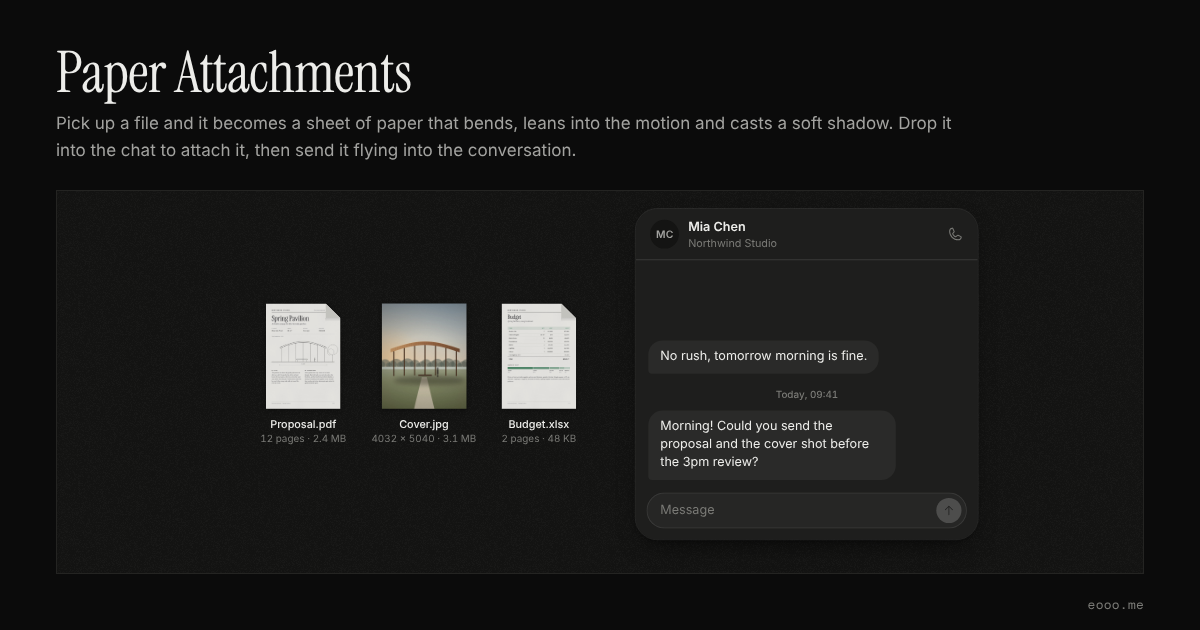
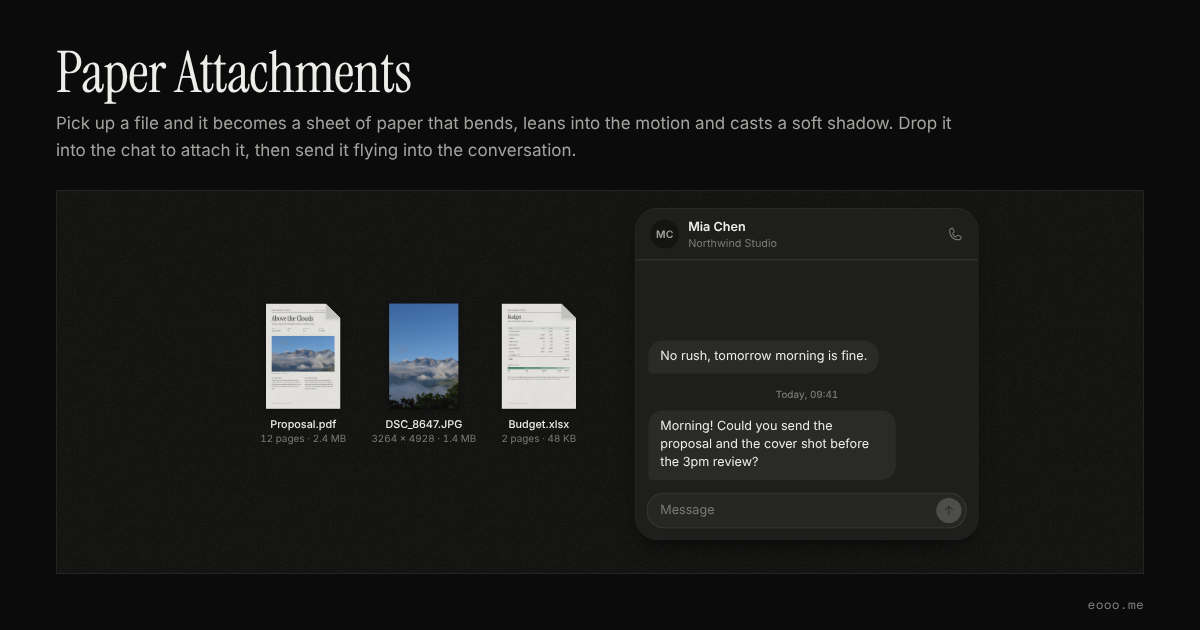
feat(lab): Paper Attachments 换上真实照片：封面是一张真的山景照，提案页印着它 (#26)
- 封面换成 laken 拍的 DSC_8647（转正、缩到 1000px 宽、去掉 EXIF，存成 webp），文件名、像素尺寸、大小和比例都照相机原图
- 提案页的线稿换成这张照片的横幅；对话、提案和预算改成一篇摄影专题，预算的数加得上
- 照片和标题字体都载好了才画三页；手机首页卡片上的文件名对齐，长文件名不再挤到对话框
- prompt 的第 2 步跟着改，重截分享图

Claude-Session: https://claude.ai/code/session_01AtSjXLnefQtHxDA21TmYrk

Changed region(s): [[0.3083, 0.4825, 0.4008, 0.6937], [0.2158, 0.5127, 0.2775, 0.6333]]

diff --git a/src/labs/paper-attachments/pages.js b/src/labs/paper-attachments/pages.js
@@ -1,7 +1,9 @@
 /* 三份文件各画一次到 canvas 上：桌上的小图和拿起来那张纸的贴图都用它，两边永远一样。
+   封面是一张真的照片（laken 拍的 DSC_8647，存成不带 EXIF 的 webp），提案页上印的也是它；预算表是画出来的。
    字用网站自己的：标题是 Instrument Serif（本站带的字体），正文衬线用系统的 Georgia，小字用系统的无衬线。
    纸是纸，不跟主题变色；深色主题里整张压暗一点（CSS 的 --paper-dim 和着色器的曝光） */
 import { lerp } from "./motion.js";
+import photoUrl from "./assets/dsc-8647.webp?url";
 
 const DISPLAY = '"Instrument Serif", Georgia, serif';
 const SERIF = 'Georgia, "Times New Roman", serif';
@@ -9,11 +11,23 @@ const SANS = '-apple-system, BlinkMacSystemFont, "Segoe UI", system-ui, sans-ser
 export const PAPER = "#fbfaf7";
 export const PAPER_BACK = "#efeee9";
 
-/** 画字之前先把标题字体载进来；最多等三秒，等不到就用后备字体 */
-export function fontsReady() {
-  if (!document.fonts) return Promise.resolve();
-  const load = Promise.all(['400 54px "Instrument Serif"', 'italic 400 18px "Instrument Serif"'].map((f) => document.fonts.load(f))).catch(() => {});
-  return Promise.race([load, new Promise((r) => setTimeout(r, 3000))]);
+/** 照片的真实尺寸（相机原图竖着放）：桌上那份文件的比例和说明都照它 */
+export const PHOTO = { w: 3264, h: 4928, bytes: 1433345 };
+let photo = null;
+
+/** 画之前先把标题字体和照片都载进来；最多等三秒，字体等不到就用后备字体，照片等不到就画一块天色 */
+export function pagesReady() {
+  const fonts = document.fonts ? Promise.all(['400 54px "Instrument Serif"', 'italic 400 18px "Instrument Serif"'].map((f) => document.fonts.load(f))).catch(() => {}) : Promise.resolve();
+  const img = new Image(); img.src = photoUrl;
+  const pic = img.decode().then(() => { photo = img; }, () => {});
+  return Promise.race([Promise.all([fonts, pic]), new Promise((r) => setTimeout(r, 3000))]);
+}
+
+// 把照片按 cover 的方式铺进一个框（fy 是竖着取哪一段：0 顶、1 底）
+function drawPhoto(x, dx, dy, dw, dh, fy = 0.5) {
+  if (!photo) { const g = x.createLinearGradient(0, dy, 0, dy + dh); g.addColorStop(0, '#5f8fd0'); g.addColorStop(1, '#c9d3dc'); x.fillStyle = g; x.fillRect(dx, dy, dw, dh); return; }
+  const iw = photo.naturalWidth, ih = photo.naturalHeight, s = Math.max(dw / iw, dh / ih), sw = dw / s, sh = dh / s;
+  x.drawImage(photo, (iw - sw) / 2, (ih - sh) * fy, sw, sh, dx, dy, dw, dh);
 }
 
 function canvas(w, hgt) { const c = document.createElement('canvas'); c.width = w; c.height = hgt; return c; }
@@ -44,7 +58,7 @@ function wrap(ctx, text, x, y, maxW, lh) {
   return y;
 }
 
-/* Proposal.pdf：一份亭子方案的第一页，带一张立面图 */
+/* Proposal.pdf：一篇摄影专题的提案，第一页印着那张照片的横幅 */
 export function paintProposal(W) {
   const Hh = Math.round(W * Math.SQRT2), c = canvas(W, Hh), x = c.getContext('2d'), k = W / 600;
   x.fillStyle = PAPER; x.fillRect(0, 0, W, Hh);
@@ -52,108 +66,42 @@ export function paintProposal(W) {
   const ink = '#1b1b1f', grey = '#8a8a90', m = 48, R = 600 - m;
   x.textBaseline = 'alphabetic';
   x.fillStyle = ink; x.font = `600 10.5px ${SANS}`; x.letterSpacing = '2.2px'; x.fillText('NORTHWIND STUDIO', m, 58);
-  x.letterSpacing = '0px'; x.fillStyle = grey; x.font = `400 10.5px ${SANS}`; x.textAlign = 'right'; x.fillText('Concept proposal  ·  16 Nov 2026', R, 58); x.textAlign = 'left';
+  x.letterSpacing = '0px'; x.fillStyle = grey; x.font = `400 10.5px ${SANS}`; x.textAlign = 'right'; x.fillText('Feature proposal  ·  16 Nov 2026', R, 58); x.textAlign = 'left';
   x.fillStyle = ink; x.fillRect(m, 70, R - m, 1);
-  x.font = `400 58px ${DISPLAY}`; x.fillText('Spring Pavilion', m - 2, 140);
-  x.font = `italic 400 19px ${DISPLAY}`; x.fillStyle = '#56565c'; x.fillText('A timber canopy for the riverside garden', m, 170);
+  x.font = `400 58px ${DISPLAY}`; x.fillText('Above the Clouds', m - 2, 140);
+  x.font = `italic 400 19px ${DISPLAY}`; x.fillStyle = '#56565c'; x.fillText('A photo essay from the high valleys in early spring', m, 170);
   // 几项基本信息
-  [['CLIENT', 'Riverside Trust'], ['AREA', '86 m²'], ['STAGE', 'Concept'], ['BUDGET', '£56,600']].forEach(([a, b], i) => {
+  [['ISSUE', 'Spring 2027'], ['PAGES', '12'], ['PHOTOS', '24'], ['BUDGET', '£12,700']].forEach(([a, b], i) => {
     const cx = m + i * 126;
     x.fillStyle = grey; x.font = `600 8.5px ${SANS}`; x.letterSpacing = '1.6px'; x.fillText(a, cx, 206);
     x.letterSpacing = '0px'; x.fillStyle = ink; x.font = `400 12.5px ${SANS}`; x.fillText(b, cx, 224);
   });
   x.fillStyle = 'rgba(27,27,31,.14)'; x.fillRect(m, 244, R - m, 1);
-  // 南立面，照建筑师的画法：细线、地面打斜线、画一个人当比例尺
-  x.save(); x.strokeStyle = ink; x.lineCap = 'round'; x.lineJoin = 'round';
-  const g = 470, L = 112, Rt = 488;
-  x.lineWidth = 1.1; x.beginPath(); x.moveTo(m, g); x.lineTo(R, g); x.stroke();
-  x.lineWidth = 0.55; for (let i = m; i < R; i += 7) { x.beginPath(); x.moveTo(i, g + 1); x.lineTo(i - 6, g + 7); x.stroke(); }
-  const arch = (t, off) => [lerp(L, Rt, t), 352 - Math.sin(Math.PI * t) * 46 + off];
-  x.lineWidth = 1.1; x.beginPath(); for (let i = 0; i <= 60; i++) { const [px, py] = arch(i / 60, 0); i ? x.lineTo(px, py) : x.moveTo(px, py); } x.stroke();
-  x.beginPath(); for (let i = 0; i <= 60; i++) { const [px, py] = arch(i / 60, 9); i ? x.lineTo(px, py) : x.moveTo(px, py); } x.stroke();
-  x.lineWidth = 0.5; for (let i = 1; i < 30; i++) { const [px, py] = arch(i / 30, 0); x.beginPath(); x.moveTo(px, py); x.lineTo(px, py + 9); x.stroke(); }
-  x.lineWidth = 0.9; for (let i = 0; i <= 6; i++) { const t = 0.04 + i * 0.92 / 6, [px, py] = arch(t, 9); x.beginPath(); x.moveTo(px, py); x.lineTo(px, g); x.stroke(); }
-  x.lineWidth = 0.8; x.strokeRect(246, g - 22, 88, 6); x.beginPath(); x.moveTo(252, g - 16); x.lineTo(252, g); x.moveTo(328, g - 16); x.lineTo(328, g); x.stroke();
-  // 树
-  x.lineWidth = 0.7; x.beginPath(); x.arc(R - 14, 372, 40, 0, Math.PI * 2); x.stroke();
-  x.beginPath(); x.arc(R - 30, 392, 26, 0, Math.PI * 2); x.stroke();
-  x.lineWidth = 0.9; x.beginPath(); x.moveTo(R - 18, 410); x.lineTo(R - 18, g); x.stroke();
-  // 人
-  x.lineWidth = 0.9; x.beginPath(); x.arc(392, g - 31, 3.2, 0, Math.PI * 2); x.stroke();
-  x.beginPath(); x.moveTo(392, g - 27.5); x.lineTo(392, g - 13); x.moveTo(392, g - 13); x.lineTo(388.5, g); x.moveTo(392, g - 13); x.lineTo(395, g); x.moveTo(392, g - 24); x.lineTo(387.5, g - 15); x.moveTo(392, g - 24); x.lineTo(396, g - 16); x.stroke();
-  // 尺寸线
-  x.lineWidth = 0.6; x.strokeStyle = grey; x.beginPath(); x.moveTo(L, g + 24); x.lineTo(Rt, g + 24); x.stroke();
-  for (const px of [L, Rt]) { x.beginPath(); x.moveTo(px - 3, g + 27); x.lineTo(px + 3, g + 21); x.moveTo(px, g + 18); x.lineTo(px, g + 30); x.stroke(); }
-  x.fillStyle = grey; x.font = `400 9px ${SANS}`; x.textAlign = 'center'; x.fillText('12 400', 300, g + 20); x.textAlign = 'left';
-  x.restore();
-  x.fillStyle = grey; x.font = `400 9px ${SANS}`; x.fillText('South elevation  1:100', m, 268);
+  // 开篇跨页用的那张：照片横着裁一段，山脊和云
+  drawPhoto(x, m, 262, R - m, 286, 0.6);
+  x.fillStyle = grey; x.font = `400 9px ${SANS}`; x.fillText('Opening spread  ·  DSC_8647', m, 566);
   // 两栏正文
   const col = (y0, cx, head, body) => {
     x.fillStyle = ink; x.font = `600 8.5px ${SANS}`; x.letterSpacing = '1.6px'; x.fillText(head, cx, y0); x.letterSpacing = '0px';
     x.fillStyle = '#3a3a40'; x.font = `400 11.5px ${SERIF}`; wrap(x, body, cx, y0 + 20, 240, 16.5);
   };
-  col(542, m, '01  SITE', 'The pavilion sits where the garden path meets the old river wall. It keeps the line of the wall and leaves the lawn open, so the view across the water stays whole from the gate. Visitors arrive under the low end of the canopy and walk out toward the river as it rises.');
-  col(542, m + 264, '02  STRUCTURE', 'Seven glulam ribs carry a thin roof of cedar shingles. Each rib lands on a steel shoe above the flood line, and the bench between them doubles as bracing. Everything bolts together on site in under three weeks, and can be taken apart again when the garden needs the space.');
+  col(602, m, '01  THE STORY', 'Twelve pages on the valleys below the eastern ridges, walked over six days in March. Cloud fills the valleys most mornings and burns off by ten, so every picture was made in the first two hours of light.');
+  col(602, m + 264, '02  THE PICTURES', 'Twenty-four frames from one camera and two lenses, nothing added or taken out. The opening spread runs the ridge across both pages; the cover crops it tall, with the summit under the masthead and the cloud below.');
   x.fillStyle = 'rgba(27,27,31,.14)'; x.fillRect(m, 790, R - m, 1);
-  x.fillStyle = grey; x.font = `400 9px ${SANS}`; x.fillText('Northwind Studio  ·  Spring Pavilion', m, 808); x.textAlign = 'right'; x.fillText('1 / 12', R, 808); x.textAlign = 'left';
+  x.fillStyle = grey; x.font = `400 9px ${SANS}`; x.fillText('Northwind Studio  ·  Above the Clouds', m, 808); x.textAlign = 'right'; x.fillText('1 / 12', R, 808); x.textAlign = 'left';
   x.setTransform(1, 0, 0, 1, 0, 0);
   grain(x, W, Hh, 7, 5);
   return c;
 }
 
-/* Cover.jpg：傍晚斜阳里的亭子，一张光面相纸 */
+/* DSC_8647.JPG：封面用的那张照片本身，按相机原图的比例，不加颗粒、不加暗角 */
 export function paintCover(W) {
-  const Hh = Math.round(W * 1.25), c = canvas(W, Hh), x = c.getContext('2d');
-  const sky = x.createLinearGradient(0, 0, 0, Hh * 0.6);
-  sky.addColorStop(0, '#9fb3c2'); sky.addColorStop(0.55, '#d6d9d4'); sky.addColorStop(1, '#efdcc2');
-  x.fillStyle = sky; x.fillRect(0, 0, W, Hh);
-  // 低低的太阳在左边
-  const sun = x.createRadialGradient(W * 0.08, Hh * 0.5, 0, W * 0.08, Hh * 0.5, W * 0.9);
-  sun.addColorStop(0, 'rgba(255,214,160,.75)'); sun.addColorStop(0.4, 'rgba(255,214,160,.18)'); sun.addColorStop(1, 'rgba(255,214,160,0)');
-  x.fillStyle = sun; x.fillRect(0, 0, W, Hh);
-  const hz = Hh * 0.6;
-  // 远处的树
-  x.fillStyle = 'rgba(92,104,94,.55)';
-  for (let i = 0; i < 26; i++) { const tx = (i / 25) * W * 1.1 - W * 0.05, r = W * (0.03 + ((i * 37) % 11) / 260); x.beginPath(); x.ellipse(tx, hz - r * 0.55, r, r * 0.9, 0, 0, Math.PI * 2); x.fill(); }
-  // 河和草地
-  const gr = x.createLinearGradient(0, hz, 0, Hh);
-  gr.addColorStop(0, '#a9ad93'); gr.addColorStop(0.35, '#8f946f'); gr.addColorStop(1, '#6f7550');
-  x.fillStyle = gr; x.fillRect(0, hz, W, Hh - hz);
-  x.fillStyle = 'rgba(214,220,214,.75)'; x.fillRect(0, hz, W, Hh * 0.025);
-  // 碎石小路
-  x.fillStyle = 'rgba(226,214,190,.85)'; x.beginPath(); x.moveTo(W * 0.38, Hh); x.lineTo(W * 0.62, Hh); x.lineTo(W * 0.53, hz + Hh * 0.1); x.lineTo(W * 0.47, hz + Hh * 0.1); x.closePath(); x.fill();
-  // 顶棚落在草地上的影子
-  x.save(); x.filter = `blur(${W * 0.03}px)`; x.fillStyle = 'rgba(40,38,28,.42)'; x.beginPath(); x.ellipse(W * 0.56, hz + Hh * 0.13, W * 0.42, Hh * 0.045, 0, 0, Math.PI * 2); x.fill(); x.restore();
-  // 顶棚
-  const L = W * 0.1, Rr = W * 0.92, top = (t, off) => [lerp(L, Rr, t), hz - Hh * 0.17 - Math.sin(Math.PI * t) * Hh * 0.07 + off];
-  const ribs = 7;
-  for (let i = 0; i < ribs; i++) {
-    const t = 0.05 + i * 0.9 / (ribs - 1), [px, py] = top(t, Hh * 0.03);
-    const cg = x.createLinearGradient(px - 4, 0, px + 4, 0); cg.addColorStop(0, '#3e2a1c'); cg.addColorStop(1, '#5a3d27');
-    x.fillStyle = cg; x.fillRect(px - W * 0.006, py, W * 0.012, hz + Hh * 0.1 - py - (1 - Math.abs(t - 0.5)) * Hh * 0.02);
-  }
-  x.beginPath();
-  for (let i = 0; i <= 80; i++) { const [px, py] = top(i / 80, 0); i ? x.lineTo(px, py) : x.moveTo(px, py); }
-  for (let i = 80; i >= 0; i--) { const [px, py] = top(i / 80, Hh * 0.034); x.lineTo(px, py); }
-  x.closePath();
-  const wg = x.createLinearGradient(L, 0, Rr, 0); wg.addColorStop(0, '#d9a56f'); wg.addColorStop(0.5, '#a8714a'); wg.addColorStop(1, '#7d5236');
-  x.fillStyle = wg; x.fill();
-  x.strokeStyle = 'rgba(255,230,190,.7)'; x.lineWidth = W * 0.003; x.beginPath(); for (let i = 0; i <= 80; i++) { const [px, py] = top(i / 80, 0); i ? x.lineTo(px, py) : x.moveTo(px, py); } x.stroke();
-  x.strokeStyle = 'rgba(60,38,24,.35)'; x.lineWidth = 1; for (let i = 1; i < 40; i++) { const [px, py] = top(i / 40, 0); x.beginPath(); x.moveTo(px, py + 2); x.lineTo(px, py + Hh * 0.032); x.stroke(); }
-  // 长凳和一个人，当比例尺
-  x.fillStyle = '#4a3324'; x.fillRect(W * 0.43, hz + Hh * 0.075, W * 0.16, Hh * 0.012);
-  x.fillStyle = '#2b2622'; const px = W * 0.66, py = hz + Hh * 0.1;
-  x.beginPath(); x.arc(px, py - Hh * 0.085, W * 0.009, 0, Math.PI * 2); x.fill();
-  x.fillRect(px - W * 0.008, py - Hh * 0.075, W * 0.016, Hh * 0.042); x.fillRect(px - W * 0.006, py - Hh * 0.035, W * 0.005, Hh * 0.035); x.fillRect(px + W * 0.001, py - Hh * 0.035, W * 0.005, Hh * 0.035);
-  // 暗角和胶片颗粒
-  const v = x.createRadialGradient(W / 2, Hh * 0.55, W * 0.3, W / 2, Hh * 0.55, W * 0.95);
-  v.addColorStop(0, 'rgba(0,0,0,0)'); v.addColorStop(1, 'rgba(20,14,8,.32)');
-  x.fillStyle = v; x.fillRect(0, 0, W, Hh);
-  grain(x, W, Hh, 16, 0);
+  const Hh = Math.round((W * PHOTO.h) / PHOTO.w), c = canvas(W, Hh), x = c.getContext('2d');
+  drawPhoto(x, 0, 0, W, Hh);
   return c;
 }
 
-/* Budget.xlsx 打印出来：一张表，加一条钱花在哪儿的横条 */
+/* Budget.xlsx 打印出来：这篇专题的一张预算表，加一条钱花在哪儿的横条 */
 export function paintBudget(W) {
   const Hh = Math.round(W * Math.SQRT2), c = canvas(W, Hh), x = c.getContext('2d'), k = W / 600;
   x.fillStyle = PAPER; x.fillRect(0, 0, W, Hh); x.scale(k, k);
@@ -162,8 +110,8 @@ export function paintBudget(W) {
   x.fillStyle = grey; x.font = `400 10.5px ${SANS}`; x.textAlign = 'right'; x.fillText('Estimate  ·  v3', R, 58); x.textAlign = 'left';
   x.fillStyle = ink; x.fillRect(m, 70, R - m, 1);
   x.font = `400 46px ${DISPLAY}`; x.fillText('Budget', m - 1, 124);
-  x.font = `italic 400 17px ${DISPLAY}`; x.fillStyle = '#56565c'; x.fillText('Spring Pavilion, concept estimate', m, 150);
-  const rows = [['Glulam ribs', '7', '£2,480', '£17,360'], ['Cedar shingles', '86 m²', '£64', '£5,504'], ['Steel shoes', '14', '£205', '£2,870'], ['Foundations', '1', '£6,200', '£6,200'], ['Bench', '2', '£1,150', '£2,300'], ['Lighting', '1', '£2,400', '£2,400'], ['Labour', '1', '£14,800', '£14,800'], ['Contingency 10%', '', '', '£5,143']];
+  x.font = `italic 400 17px ${DISPLAY}`; x.fillStyle = '#56565c'; x.fillText('Above the Clouds, feature estimate', m, 150);
+  const rows = [['Travel & permits', '2', '£1,180', '£2,360'], ['Guide & porters', '6 days', '£165', '£990'], ['Lodging', '6 nights', '£48', '£288'], ['Image licence', '24', '£95', '£2,280'], ['Retouching', '24', '£35', '£840'], ['Layout & proofs', '12 pp', '£120', '£1,440'], ['Printing', '8,000', '£0.42', '£3,360'], ['Contingency 10%', '', '', '£1,156']];
   const cols = [m + 10, 318, 410, R - 10];
   let y = 186;
   x.fillStyle = 'rgba(47,122,82,.1)'; x.fillRect(m, y, R - m, 26);
@@ -176,11 +124,11 @@ export function paintBudget(W) {
     y += 27; x.fillStyle = 'rgba(27,27,31,.08)'; x.fillRect(m, y, R - m, 1);
   }
   x.fillStyle = ink; x.fillRect(m, y + 1, R - m, 1.2);
-  x.font = `600 12.5px ${SANS}`; x.textAlign = 'left'; x.fillText('Total', cols[0], y + 24); x.textAlign = 'right'; x.fillText('£56,577', cols[3], y + 24); x.textAlign = 'left';
+  x.font = `600 12.5px ${SANS}`; x.textAlign = 'left'; x.fillText('Total', cols[0], y + 24); x.textAlign = 'right'; x.fillText('£12,714', cols[3], y + 24); x.textAlign = 'left';
   // 钱花在哪儿
   y += 70;
   x.fillStyle = ink; x.font = `600 8.5px ${SANS}`; x.letterSpacing = '1.6px'; x.fillText('SHARE OF COST', m, y); x.letterSpacing = '0px';
-  const parts = [['Timber', 40.4], ['Labour', 26.2], ['Ground', 16], ['Fit-out', 8.3], ['Reserve', 9.1]];
+  const parts = [['Field', 28.6], ['Print', 26.4], ['Pictures', 24.5], ['Design', 11.3], ['Reserve', 9.1]];
   let bx = m; y += 14;
   parts.forEach(([n, p], i) => {
     const w = (R - m) * p / 100;
@@ -190,9 +138,9 @@ export function paintBudget(W) {
   });
   y += 84;
   x.fillStyle = '#3a3a40'; x.font = `400 11.5px ${SERIF}`;
-  wrap(x, 'Prices are from two timber suppliers and one steel fabricator, quoted in October. Shingles assume a 15% cut allowance. Lighting is a single low run under the bench; anything brighter would need its own feed from the gatehouse.', m, y, R - m, 16.5);
+  wrap(x, 'Travel is two return flights and the road transfer, booked in October. Guide and porters are a day rate for six days; lodging is guesthouses along the route. Printing assumes 8,000 copies on 130 gsm silk.', m, y, R - m, 16.5);
   x.fillStyle = 'rgba(27,27,31,.14)'; x.fillRect(m, 790, R - m, 1);
-  x.fillStyle = grey; x.font = `400 9px ${SANS}`; x.fillText('Northwind Studio  ·  Spring Pavilion', m, 808); x.textAlign = 'right'; x.fillText('1 / 2', R, 808); x.textAlign = 'left';
+  x.fillStyle = grey; x.font = `400 9px ${SANS}`; x.fillText('Northwind Studio  ·  Above the Clouds', m, 808); x.textAlign = 'right'; x.fillText('1 / 2', R, 808); x.textAlign = 'left';
   x.setTransform(1, 0, 0, 1, 0, 0);
   grain(x, W, Hh, 7, 5);
   return c;

diff --git a/src/labs/paper-attachments/desk.js b/src/labs/paper-attachments/desk.js
@@ -4,15 +4,16 @@
 import { iconSvg } from "../_kit/icons";
 import { motion, clamp, easeIO } from "./motion.js";
 import { createPaper } from "./paper.js";
-import { fontsReady, paintProposal, paintCover, paintBudget } from "./pages.js";
+import { pagesReady, paintProposal, paintCover, paintBudget, PHOTO } from "./pages.js";
 
 const HINT = 30;   // 舞台底下留给提示那一行的高度（屏幕像素）
 const FILES = [
   { key: "proposal", name: "Proposal.pdf", meta: "12 pages · 2.4 MB", paint: paintProposal, ar: Math.SQRT2, ear: true, gloss: 0.06, shine: 10 },
-  { key: "cover", name: "Cover.jpg", meta: "4032 × 5040 · 3.1 MB", paint: paintCover, ar: 1.25, ear: false, gloss: 0.3, shine: 46, stiff: 1 },
+  // 封面是一张真的照片：文件名、尺寸、大小都照相机原图
+  { key: "cover", name: "DSC_8647.JPG", meta: `${PHOTO.w} × ${PHOTO.h} · ${(PHOTO.bytes / 1048576).toFixed(1)} MB`, paint: paintCover, ar: PHOTO.h / PHOTO.w, ear: false, gloss: 0.3, shine: 46, stiff: 1 },
   { key: "budget", name: "Budget.xlsx", meta: "2 pages · 48 KB", paint: paintBudget, ar: Math.SQRT2, ear: true, gloss: 0.06, shine: 10 },
 ];
-const THREAD0 = `<div class="day">Monday, 16:05</div><div class="msg them">Can you take another pass at the canopy? It feels heavy from the river side.</div><div class="msg me">Yes. I'll thin the ribs and send a new set on Wednesday.</div><div class="day">Yesterday, 18:12</div><div class="msg me">Draft's nearly done. Just tidying up the drawings.</div><div class="msg them">No rush, tomorrow morning is fine.</div><div class="day">Today, 09:41</div><div class="msg them">Morning! Could you send the proposal and the cover shot before the 3pm review?</div>`;
+const THREAD0 = `<div class="day">Monday, 16:05</div><div class="msg them">Can you take another pass at the opening spread? It feels a little heavy.</div><div class="msg me">Yes. I'll try a lighter frame and send a new set on Wednesday.</div><div class="day">Yesterday, 18:12</div><div class="msg me">Draft's nearly done. Just tidying up the captions.</div><div class="msg them">No rush, tomorrow morning is fine.</div><div class="day">Today, 09:41</div><div class="msg them">Morning! Could you send the proposal and the cover shot before the 3pm review?</div>`;
 
 let grainURL = null;   // 桌面的细颗粒，生成一次大家共用
 function grain() {
@@ -390,10 +391,10 @@ export function create(root) {
     clear() { for (const o of Flat.all) o.node.remove(); Flat.all = []; },
   };
 
-  /* ───────── 开始：等标题字体，画三页，交给页面和显卡 ───────── */
+  /* ───────── 开始：等标题字体和照片，画三页，交给页面和显卡 ───────── */
   layout();
   reset();
-  fontsReady().then(() => {
+  pagesReady().then(() => {
     if (dead) return;
     for (const f of files) {
       f.canvas = f.paint(768);

diff --git a/src/labs/paper-attachments/style.css b/src/labs/paper-attachments/style.css
@@ -33,8 +33,8 @@
 .paper-lab[data-mode="wide"] .desk { left: var(--side); right: calc(var(--side) + var(--cw) + 24px); top: 20px; bottom: 4px; }
 .paper-lab[data-mode="tall"] .chat { left: 16px; right: 16px; top: 16px; bottom: calc(var(--th) + 64px); }
 .paper-lab[data-mode="tall"] .desk { left: 16px; right: 16px; bottom: 6px; height: calc(var(--th) + 46px); }
-.paper-lab[data-mode="compact"] .chat { right: 12px; top: 12px; bottom: 2px; left: 150px; }
-.paper-lab[data-mode="compact"] .desk { left: 10px; top: 12px; bottom: 2px; width: 128px; }
+.paper-lab[data-mode="compact"] .chat { right: 12px; top: 12px; bottom: 2px; left: 160px; }
+.paper-lab[data-mode="compact"] .desk { left: 10px; top: 12px; bottom: 2px; width: 138px; }
 
 /* ───────── 滚动的字 ───────── */
 .paper-lab .roll { display: inline-flex; flex: none; white-space: pre; vertical-align: top; }
@@ -197,5 +197,7 @@
 .paper-lab[data-mode="compact"] .ph { font-size: 13px; }
 .paper-lab[data-mode="compact"] .files { flex-direction: column; align-items: stretch; gap: 12px; }
 .paper-lab[data-mode="compact"] .file { flex-direction: row; gap: 10px; }
+/* 小图竖着排时放进一样宽的格子（A4 那么宽），比例不同的照片居中，三个文件名左边对齐 */
+.paper-lab[data-mode="compact"] .th { margin-inline: calc((var(--th) / 1.4142 - var(--th) / var(--ar)) / 2); }
 .paper-lab[data-mode="compact"] .nm { align-items: flex-start; min-width: 0; }
 .paper-lab[data-mode="compact"] .nm span { display: none; }

diff --git a/src/labs/paper-attachments/index.md b/src/labs/paper-attachments/index.md
@@ -17,7 +17,7 @@ prompt: |-
   - Thumbnails are 58, 84 or clamp(0.3 × height, 86, 124) px tall (compact, tall, wide). A sheet in the hand is 104, 132 or clamp(0.36 × height, 120, 146) px wide, the photo 4% wider. Attachment tiles are 44 px tall in compact and 56 px otherwise.
 
   2. The pages
-  - Paint each page once with the canvas 2D API at 768 px wide, after my display font has loaded (wait at most 3 s): a proposal with a serif title and a line drawing, a photo, a budget table. Use the same canvas as the DOM thumbnail (a JPEG data URL) and as the WebGL texture, so swapping one for the other has no seam.
+  - Use a real photograph for the image file, one of mine if I give you one: save a web-sized copy (about 1000 px wide) with the EXIF stripped, and give the file its real name, pixel size and file size, and its real aspect ratio on the desk. Paint each page once with the canvas 2D API at 768 px wide, after my display font and the photo have loaded (wait at most 3 s): a proposal with a serif title and a wide crop of the same photo printed on it, the photo itself, and a budget table whose figures add up. Use the same canvas as the DOM thumbnail (a JPEG data URL) and as the WebGL texture, so swapping one for the other has no seam.
   - Paper stays paper in both themes: off-white, square corners, a two-layer drop shadow (0 0.5px 0.6px and 0 1.5px 2.5px). In dark mode dim it to 90%. The two documents have a folded corner.
 
   3. The sheet
